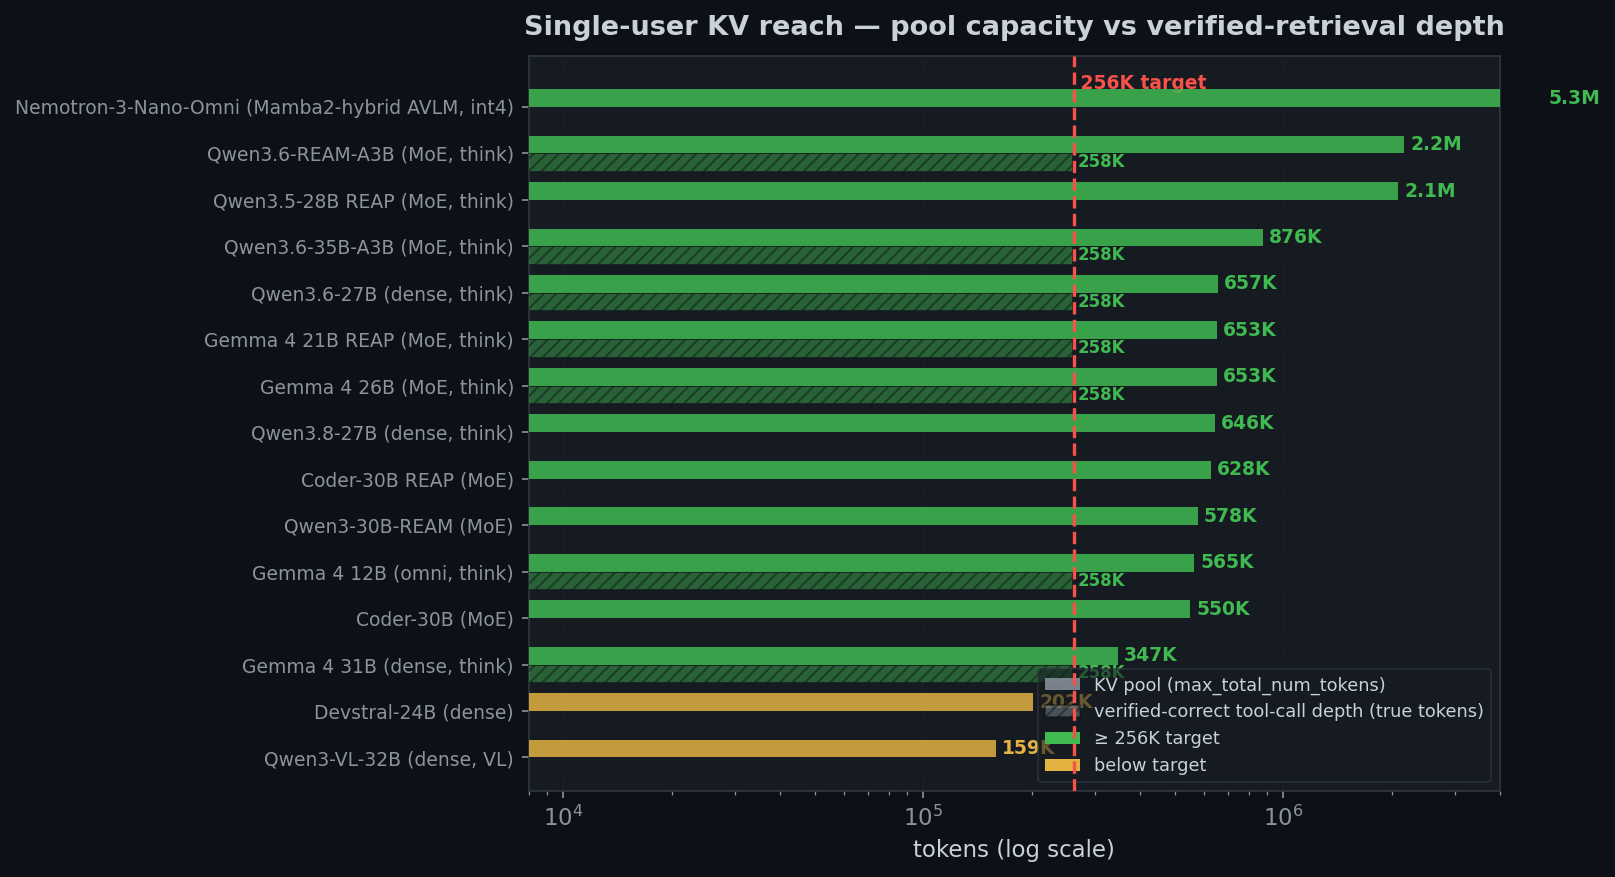
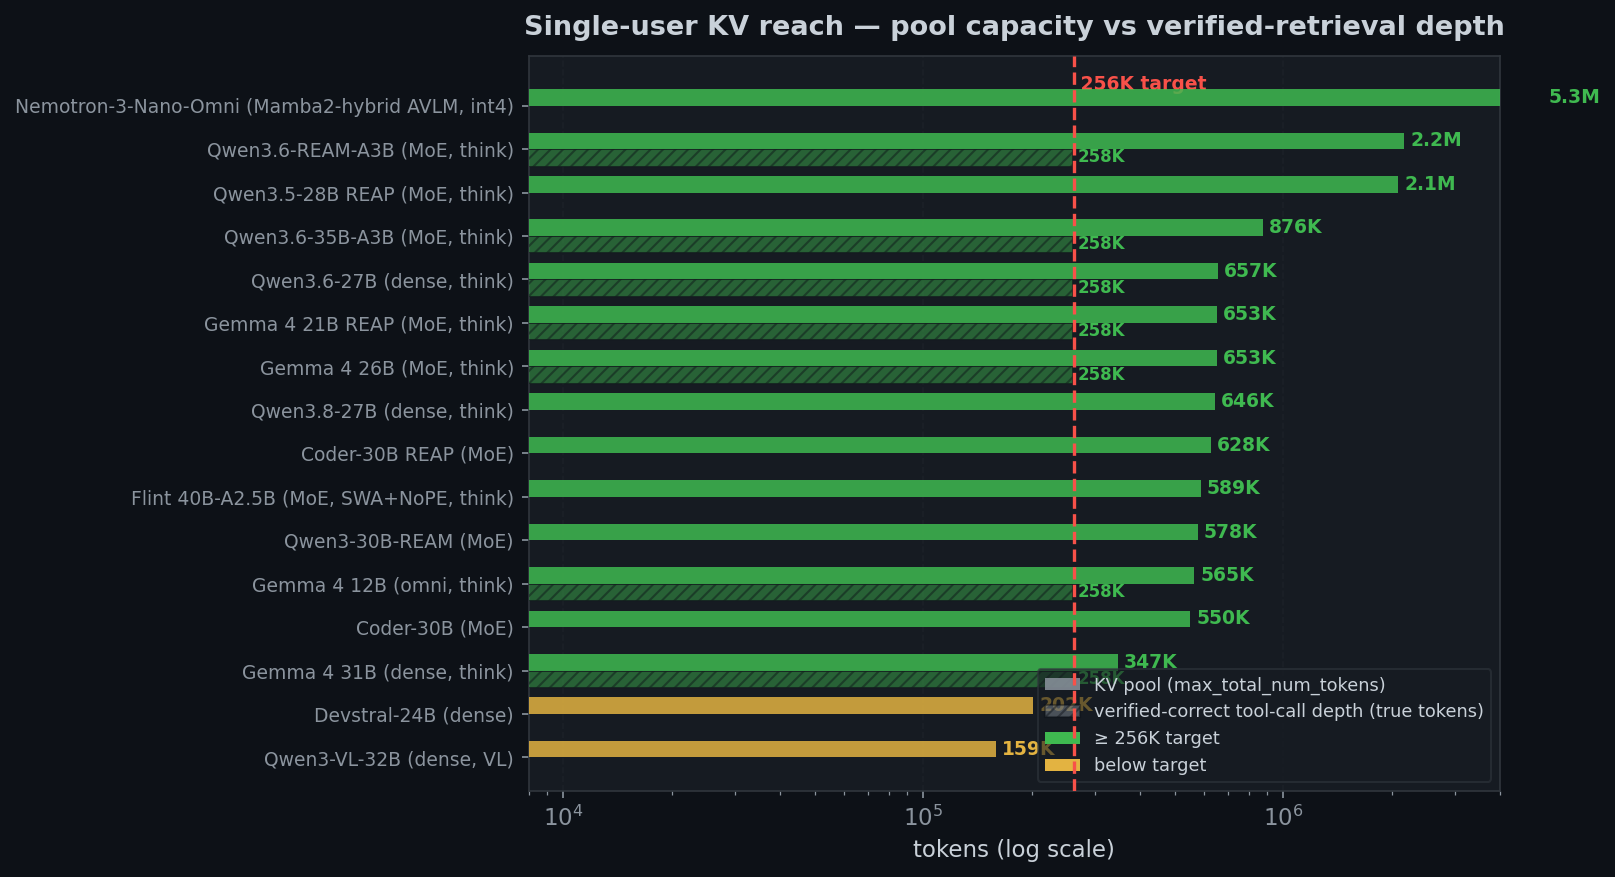
flint: 10-point depth sweep (165.6 @1K → 35.9 @261,916 actual) + context/KV charts; rollout image janitor becomes a systemd unit (survives the cold boot; hand-detached pid did not)

Changed region(s): [[0.0929, 0.1539, 0.8978, 0.862], [0.6811, 0.0924, 0.743, 0.1231], [0.9598, 0.0924, 0.9907, 0.1231]]

diff --git a/docs/swebench-bakeoff.md b/docs/swebench-bakeoff.md
@@ -19,7 +19,7 @@ The README carries the score table and the verdict. This file holds the harness 
 ## Cycle mechanics
 
 **Roster pruned 2026-10-22 — one lane per preset, plain `opencode`.** The qwen38 v4 cycle was the five-scaffold harness bake-off (opencode 196 / opencode+DCP 203 / little-coder 193 / little-coder+RTK 202 / prime 187 on the same 300 isolated instances; every pair a McNemar tie except prime vs the two plugin lanes — [receipt](../benchmarks/quality/qwen38-v4-cycle-close-2026-10-22.md)), so the remaining presets roll `opencode` only (`systemd/swebench-bakeoff.override.conf`: `SCAFFOLDS_FOR=<preset>:opencode`, `flint` first). The other scaffolds stay wired in `docker_rollout.py` for ad-hoc cells; nothing below about them is retracted. Historical scope before the pruning: 11 presets (the queue in `evals/swebench/run_all_cycles.sh`) × the 2026-08-31 scaffold roster — **opencode, opencode+DCP, little-coder, little-coder+RTK, prime (prime-agent 0.10.0; the qwen38 v4 cell is 0.8.1), dcode (deepagents-code 0.1.65)** plus, from the qwen38 boundary onward, **omp (oh-my-pi 18.12.2)** — including `nemotron3-omni`, an AVLM omni ship measured because "it can't code" is an unproven assumption (it has thinking + tool-call); it runs last via `--skip-existing`. A six-lane × full-300 cycle on a thinking 27B takes ~2 weeks of wall time (qwen38 reasons ~2× longer per instance than qwen36-dense: 562 s vs 284 s median on the identical harness); the production endpoint is down for the duration and `swebench-bakeoff.service` auto-resumes the cycle after the box's periodic kernel-BUG reboot. Cells land in `benchmarks/quality/bakeoff-<preset>-<scaffold>.json` as they score.
-- Per-instance rollout images are **deleted after use** during the cycle (`evals/swebench/rollout_image_janitor.sh`, detached): the six-scaffold image stack is ~10.5 GB/instance with no cross-instance layer sharing, so 300 persistent images (~1.7 TB) cannot fit on disk. Lanes after the first rebuild each instance's image on demand (`ensure_rollout_image` treats a missing tag as build-it). The janitor deletes an image only when the lane's `logs/<iid>.log` is newer than the image's `Created` — a finished lane stays the "newest predictions.jsonl" until the next lane's first prediction lands, and the old instance-id-only rule deleted the next lane's freshly built first image between `docker build` and `docker run` (2026-09-20; `audit_predictions.py` classes that failure `infra_rollout_image_missing`).
+- Per-instance rollout images are **deleted after use** during the cycle (`evals/swebench/rollout_image_janitor.sh`, run as the `rollout-image-janitor.service` systemd unit — `systemd/rollout-image-janitor.service`, enabled alongside `swebench-bakeoff.service` so it survives a reboot): the six-scaffold image stack is ~10.5 GB/instance with no cross-instance layer sharing, so 300 persistent images (~1.7 TB) cannot fit on disk. Lanes after the first rebuild each instance's image on demand (`ensure_rollout_image` treats a missing tag as build-it). The janitor deletes an image only when the lane's `logs/<iid>.log` is newer than the image's `Created` — a finished lane stays the "newest predictions.jsonl" until the next lane's first prediction lands, and the old instance-id-only rule deleted the next lane's freshly built first image between `docker build` and `docker run` (2026-09-20; `audit_predictions.py` classes that failure `infra_rollout_image_missing`).
 - **A/B lanes re-run after an env confound (2026-09-07).** The rollout container runs `bash -lc`, which only reaches `conda activate testbed` through `/root/.bashrc` — the two A/B lanes override `HOME` for config isolation (`/opt/dcp-home`, `/opt/rtk-home`), so their scaffolds ran on the miniconda **base** interpreter while the prompt promised the repo env. Receipts from the first pass (`evals/swebench/runs/*-noenv-2026-09-07`, engagement snapshots in `benchmarks/quality/*-engagement-noenv-2026-09-07/`): "No module named <repo>" in **34%** of DCP sessions vs **10%** in the opencode control; env-hunting (`ls /opt/miniconda3/envs`, `which python`) in **85%** of RTK ledgers; 5 timeouts in the first 40 RTK instances vs 0 in the little-coder control. Those cells measured an env tax, not the plugins. Fix: `docker_rollout.py` now activates `testbed` explicitly in every lane (no-op for the `HOME=/root` controls — same interpreter, verified); both A/B lanes restarted from scratch. The four control/new lanes (opencode, little-coder, prime, dcode) were never affected.
 - **Next harness lever (after this cycle closes — not mid-series):** stop building per-instance rollout images. Buildkit timings on the v3 lanes put the scaffold layer at **176 s per instance per lane** (median; dcode conda env 68 s + export 60 s), and the GPUs are busy only 73 % / 65 % of the opencode / opencode+DCP lane's wall clock ([`gpu-utilization-harness-overhead-2026-09-26.md`](../benchmarks/quality/gpu-utilization-harness-overhead-2026-09-26.md); `evals/swebench/lane_overhead.py` reproduces it per lane). Earlier little-coder-lane timing: **~166 s per instance per lane** (13.8 h per 300-lane, ~3.4 days per six-lane cycle) because the roster is baked on top of 300 unique eval bases with no shared layers. Plan: keep the official `swebench/sweb.eval.x86_64.<iid>` image as-is and bind-mount a host-built scaffold stack (`/opt/node`, the npm prefixes, `/opt/dcp-home`, `/opt/rtk-home`, dcode's env, the `rtk` binary) read-only — same scaffold versions, same `testbed` env, zero builds, no 10.5 GB transient. R9700 avoids this cost with host-side rollouts + cached per-instance venvs (`/data/swebench-venvs/<iid>`, built once for all lanes); their trade is spec archaeology for the old-Python instances, which the official image gives us for free.
 - **Serving mode (`SERVE_MODE=bare|docker`, added 2026-09-19).** Rollouts and scoring run in docker; the cycle's SGLang server did not — `run_model_cycle.sh` launched it bare-metal from the conda env. [`serve_backend.sh`](../evals/swebench/serve_backend.sh) (sourced by the cycle driver and `smoke_kernel.sh`) abstracts start / stop / reuse / receipt behind one switch, read from the env or from the first token of [`serve_mode.conf`](../evals/swebench/serve_mode.conf) so a running queue picks a change up at its next cycle start. `docker` runs the OCI image (`SERVE_IMAGE`, default `sglang-cuda-3090:local`) as `bakeoff-sglang`: `--network=host` (rollout containers already reach `127.0.0.1:23334`), models bind-mounted read-only at `/models` **and** at the resolved host path of `$MODELS_DIR` (15 of 21 preset checkpoints are absolute symlinks into `/data/models/<real>`, which dangle behind a lone `/models` bind; a ~2 s GPU-free checkpoint preflight — `DRY_RUN=1 launch.sh` → `test -e/-r` per `/models` argv entry inside the image — runs before every `docker run`), the Triton/torch cache in a named volume (`SERVE_CACHE_VOLUME`), secure-launch with a per-cycle minted API key pair under `$LOG_DIR/secrets` (0644 files in a 0700 dir — a file bind mount is readable by the image's UID 10001), `SGLANG_TRUST_REMOTE_CODE=1` + `SGLANG_ENABLE_METRICS=1` for argv parity with bare metal (`SERVE_TRUST_REMOTE_CODE=0` to drop it), and a **strict stale-image check** — the cycle refuses an image whose baked `scripts/launch.sh` differs from the repo's (`SERVE_ALLOW_STALE_IMAGE=1` overrides; the receipt records the image id either way). The key reaches every scaffold through `docker_rollout.py` (`SWEBENCH_API_KEY_FILE`): opencode `options.apiKey`, little-coder's provider `apiKey`, prime's models entry, `OPENAI_API_KEY` for dcode / claw — and the Phase-0 request audit gains an `auth` column that fails the cycle when the served key is configured and a scaffold's first request would 401. Finding from that audit: **pi 0.83 (little-coder 1.19.0, the RTK lane) sends a provider `apiKey` verbatim** (`Bearer LLAMACPP_API_KEY`), whereas pi 0.68 resolved an env-var name through the environment — the models entry now carries the literal key. In `bare` mode nothing changes on the wire except that every scaffold uniformly sends `Bearer noop`. Each cell records `serve_mode` / `serve_image` / `serve_image_id` / `api_auth` in `meta.json` and a copy of the cycle's `serve-backend.json`. A `PAUSE` file (`/tmp/run-model-cycle-logs/PAUSE`) holds the queue between cycles for a stack flip + image rebuild without a relaunch. First docker-served cycle: qwen38 v3 (2026-09-20) on the v0.5.20 image, after [`smoke_docker_serving.sh`](../evals/swebench/smoke_docker_serving.sh) passed on qwen38 and qwen36 (scaffold audit → boot → anon 401 → bench vs the bare baseline → `/v1/responses` → 2-instance isolated rollout → leak audit).
